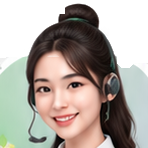
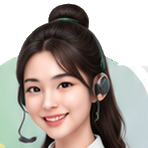
1.1.336: assistant hair cut along its real edge (no white patches, bun whole)

diff --git a/public/sw.js b/public/sw.js
@@ -1,5 +1,5 @@
 const CACHE_NAME = "gearhub-shell-v85-1.1.336";
-const SHELL = ["/visit-shop.css?v=1.1.328","/images/cart-scooter.png?v=1.1.327","/category-picker.css?v=20261021-nested-arrows-19","/category-picker.js?v=20261028-same-name-2","/category-editor.css?v=1.1.326","/category-editor.js?v=1.1.326","/work-product.css?v=1.1.320","/work-product.js?v=1.1.320","/storage-design.css?v=1.1.315","/images/noti-bell.png?v=1","/images/noti-bell-quiet.png?v=1","/images/noti-chat.png?v=1","/noti-chat.css?v=1.1.319","/noti-chat.js?v=1.1.330","/images/profile-cover.svg?v=2","/home-hero.css?v=1.1.310","/hero-slides.js?v=1.1.310","/pc-top.css?v=1.1.323","/pc-top.js?v=1.1.321","/images/promo-machines.png?v=1.1.321","/fb-nav.css?v=1.1.329","/search-filter.css?v=1.1.307","/search-filter.js?v=1.1.328","/pull-refresh.js?v=1.1.309","/profile-menu.css?v=1.1.323","/follow-list.css?v=1.1.330","/follow-list.js?v=1.1.330","/profile-menu.js?v=1.1.331","/visit-shop.js?v=1.1.327","/nav-autohide.js?v=1.1.293","/shops-feed.css?v=1.1.318","/shops-feed.js?v=1.1.331","/release-control.css?v=1.1.313","/release-control.js?v=1.1.313","/signin.css?v=1.1.210","/platform.js?v=1.1.290","/shop-application.js?v=1.1.204","/images/signin-scene.webp?v=1.1.203","/images/signin-scene-phone.webp?v=1.1.209","/open-in-app.js?v=1.1.200","/app-switch.js?v=1.1.295","/install-guide.css?v=1.1.231","/install-guide.js?v=1.1.231","/product-phone.css?v=1.1.194","/product-phone.js?v=1.1.193","/photo-editor.css?v=1.1.229","/photo-editor.js?v=1.1.320","/product-ai.js?v=1.1.193","/images/product-ai-robot.png?v=1.1.193","/skyshop-splash.css?v=1.1.299","/skyshop-splash.js?v=1.1.299","/images/skyshop-splash-phone.jpg?v=1","/images/skyshop-splash-pc.jpg?v=1","/category-browser.js?v=20261028-same-name-1","/tenant-store.js?v=1.1.291","/excel-zip.js?v=1.1.267","/excel-map.js?v=1.1.285","/excel-select.js?v=1.1.226","/excel-auto-upload.js?v=1.1.192","/excel-library.js?v=1.1.285","/excel-search-index.js?v=1.1.267","/excel-search.js?v=1.1.305","/updates.js?v=1.1.288","/desktop.css?v=20261023-pcnav-2","/","/style.css?v=1.1.298","/site-content.js?v=1.1.302","/smart-search.js?v=1.1.310","/store.js?v=1.1.310","/similar-parts.js?v=1.1.235","/photo-scan.js?v=1.1.281","/net-speed.js?v=1.1.331","/speed-warm.css?v=1.1.331","/speed-warm.js?v=1.1.331","/ai-help.css?v=1.1.336","/ai-help.js?v=1.1.336","/images/assistant.png?v=1","/images/assistant-face.png?v=2","/liquid-nav.js?v=20261022-nav-drag-1","/card-tilt.js?v=20261023-tilt-1","/app-install.js?v=1.1.262","/settings.js?v=1.1.315","/app-badge.js?v=1.1.249","/app-login.js?v=1.1.296","/settings-alerts.js?v=1.1.314","/settings-design.css?v=1.1.268","/settings-design.js?v=1.1.296","/back-nav.js?v=1.1.303","/dialogs.js?v=20261026-keep-scroll-1","/footer.js?v=20261012-1","/images/hero-excavator.jpg","/app.webmanifest","/app-icon.png","/icons/icon.svg","/icons/apple-touch-icon.png","/qrcode.js?v=1.4.4"];
+const SHELL = ["/visit-shop.css?v=1.1.328","/images/cart-scooter.png?v=1.1.327","/category-picker.css?v=20261021-nested-arrows-19","/category-picker.js?v=20261028-same-name-2","/category-editor.css?v=1.1.326","/category-editor.js?v=1.1.326","/work-product.css?v=1.1.320","/work-product.js?v=1.1.320","/storage-design.css?v=1.1.315","/images/noti-bell.png?v=1","/images/noti-bell-quiet.png?v=1","/images/noti-chat.png?v=1","/noti-chat.css?v=1.1.319","/noti-chat.js?v=1.1.330","/images/profile-cover.svg?v=2","/home-hero.css?v=1.1.310","/hero-slides.js?v=1.1.310","/pc-top.css?v=1.1.323","/pc-top.js?v=1.1.321","/images/promo-machines.png?v=1.1.321","/fb-nav.css?v=1.1.329","/search-filter.css?v=1.1.307","/search-filter.js?v=1.1.328","/pull-refresh.js?v=1.1.309","/profile-menu.css?v=1.1.323","/follow-list.css?v=1.1.330","/follow-list.js?v=1.1.330","/profile-menu.js?v=1.1.331","/visit-shop.js?v=1.1.327","/nav-autohide.js?v=1.1.293","/shops-feed.css?v=1.1.318","/shops-feed.js?v=1.1.331","/release-control.css?v=1.1.313","/release-control.js?v=1.1.313","/signin.css?v=1.1.210","/platform.js?v=1.1.290","/shop-application.js?v=1.1.204","/images/signin-scene.webp?v=1.1.203","/images/signin-scene-phone.webp?v=1.1.209","/open-in-app.js?v=1.1.200","/app-switch.js?v=1.1.295","/install-guide.css?v=1.1.231","/install-guide.js?v=1.1.231","/product-phone.css?v=1.1.194","/product-phone.js?v=1.1.193","/photo-editor.css?v=1.1.229","/photo-editor.js?v=1.1.320","/product-ai.js?v=1.1.193","/images/product-ai-robot.png?v=1.1.193","/skyshop-splash.css?v=1.1.299","/skyshop-splash.js?v=1.1.299","/images/skyshop-splash-phone.jpg?v=1","/images/skyshop-splash-pc.jpg?v=1","/category-browser.js?v=20261028-same-name-1","/tenant-store.js?v=1.1.291","/excel-zip.js?v=1.1.267","/excel-map.js?v=1.1.285","/excel-select.js?v=1.1.226","/excel-auto-upload.js?v=1.1.192","/excel-library.js?v=1.1.285","/excel-search-index.js?v=1.1.267","/excel-search.js?v=1.1.305","/updates.js?v=1.1.288","/desktop.css?v=20261023-pcnav-2","/","/style.css?v=1.1.298","/site-content.js?v=1.1.302","/smart-search.js?v=1.1.310","/store.js?v=1.1.310","/similar-parts.js?v=1.1.235","/photo-scan.js?v=1.1.281","/net-speed.js?v=1.1.331","/speed-warm.css?v=1.1.331","/speed-warm.js?v=1.1.331","/ai-help.css?v=1.1.336","/ai-help.js?v=1.1.336","/images/assistant.png?v=2","/images/assistant-face.png?v=3","/liquid-nav.js?v=20261022-nav-drag-1","/card-tilt.js?v=20261023-tilt-1","/app-install.js?v=1.1.262","/settings.js?v=1.1.315","/app-badge.js?v=1.1.249","/app-login.js?v=1.1.296","/settings-alerts.js?v=1.1.314","/settings-design.css?v=1.1.268","/settings-design.js?v=1.1.296","/back-nav.js?v=1.1.303","/dialogs.js?v=20261026-keep-scroll-1","/footer.js?v=20261012-1","/images/hero-excavator.jpg","/app.webmanifest","/app-icon.png","/icons/icon.svg","/icons/apple-touch-icon.png","/qrcode.js?v=1.4.4"];
 const ADMIN_CACHE="gearhub-admin-v1",IMAGE_CACHE="gearhub-img-v1",EXCEL_CACHE="gearhub-excel-v1";
 const shopPath=pathname=>{const m=pathname.match(/^\/shops\/([a-z0-9-]+)(?:\/|$)/);return m?'/shops/'+m[1]+'/':null;};
 const offlineCache=pathname=>'gearhub-offline-v2:'+ (shopPath(pathname)||'root');

diff --git a/public/ai-help.js b/public/ai-help.js
@@ -107,10 +107,10 @@
   return general>=2?K.find(e=>e[0]==='help'):null;
  }
  const esc=v=>String(v??'').replace(/[&<>"']/g,c=>({'&':'&amp;','<':'&lt;','>':'&gt;','"':'&quot;',"'":'&#39;'}[c]));
- const robot='/images/assistant-face.png?v=2';
+ const robot='/images/assistant-face.png?v=3';
  const button=document.createElement('button');button.type='button';button.className='ai-help-button';
  // 1.1.336 owner's picture: the assistant on a card, a chat bubble and the "AI Assistant" pill.
- button.innerHTML='<span class="ai-help-card" aria-hidden="true"></span><img class="ai-help-person" src="/images/assistant.png?v=1" alt=""><span class="ai-help-bubble" aria-hidden="true"></span><span class="ai-help-pill" aria-hidden="true"><b>AI</b>Assistant</span>';
+ button.innerHTML='<span class="ai-help-card" aria-hidden="true"></span><img class="ai-help-person" src="/images/assistant.png?v=2" alt=""><span class="ai-help-bubble" aria-hidden="true"></span><span class="ai-help-pill" aria-hidden="true"><b>AI</b>Assistant</span>';
  document.body.append(button);
  const box=document.createElement('dialog');box.className='ai-help';document.body.append(box);
  box.innerHTML='<header><img src="'+robot+'" alt=""><span><b></b><small></small></span><button type="button" class="ai-help-x">×</button></header><div class="ai-help-log" role="log" aria-live="polite"></div><div class="ai-help-chips"></div><form class="ai-help-form"><input type="text" autocomplete="off" maxlength="200" enterkeyhint="send"><button type="submit" aria-label=""><svg viewBox="0 0 24 24" aria-hidden="true"><path d="M3.5 11.5 20 4l-5.5 16-3-6.5z"/><path d="m11.5 13.5 4-4"/></svg></button></form>';

diff --git a/public/ai-help.css b/public/ai-help.css
@@ -61,6 +61,6 @@ body:has(.ai-help[open]){overflow:hidden}
 :root[data-theme="dark"] .ai-tour-card{background:#1b2a20;color:#e1f0de}
 body.ai-touring .ai-help-button{display:none}
 /* Her whole face and hair (bun too) show: rounded square, nothing cut off. */
-.ai-help header img,.ai-help-msg img{object-fit:contain;border-radius:12px;background:#e3f1e6}
+.ai-help header img,.ai-help-msg img{object-fit:contain;border-radius:12px;background:linear-gradient(160deg,#d3e9d8,#cfe2dc)}
 .ai-help header img{width:48px;height:48px}
 .ai-help-msg img{flex-basis:34px;width:34px;height:34px;border-radius:9px}

diff --git a/AI_COLLABORATION.md b/AI_COLLABORATION.md
@@ -1628,3 +1628,4 @@ _None._
 - Owner's picture: the AI button is a woman assistant with a headset on a pale green rounded card; her bun rises above the card; a green chat bubble with ··· sits at the top right and a white pill with a green "AI" circle and "Assistant" sits below. Later: "I want the whole face and hair visible."
 - Her photo was cut from the owner's screenshot with a scratchpad swift script: inside the card everything is kept; above it only the hair (ellipse, white removed with soft alpha). Files: public/images/assistant.png (button) and assistant-face.png (chat avatar, whole head including the bun, ?v=2). The card border/shadow, bubble and pill are CSS, sized from the picture (86x102 css px, right 13 px, bottom 84 px + safe area; PC scale 1.15). Chat avatars are rounded squares (object-fit contain) so nothing is cut. The texts say "AI Assistant".
 - Compared side by side with the owner's picture at the same scale (scratchpad ai/cmp-big.png): the same layout, card, bubble and pill. The photo is soft because it comes from a screenshot. Node22 check passes; ai-help + tenant-install tests pass (full suite 497/497 before the avatar tweak). WebKit iPhone 13 + PC 1280, no page errors. Real iPhone not verified.
+- Follow-up (same PR): owner said the hair looked broken (the ellipse cut the bun and left white patches). The cut is redone with a flood fill: the white page behind the head is removed from the edges inward; only pixels joined to the card are kept (the text behind is dropped); the edges are soft; the bubble's green is removed only where it is green (the hair under it stays); everything outside the card's rounded rectangle below its top is cleared. assistant.png?v=2, assistant-face.png?v=3 (whole head, bun included); avatar background in the card's green. Node22 check + test 497/497; WebKit phone screenshots compared with the owner's picture.
